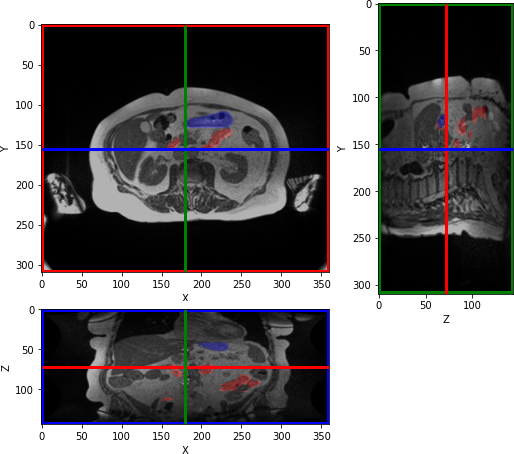
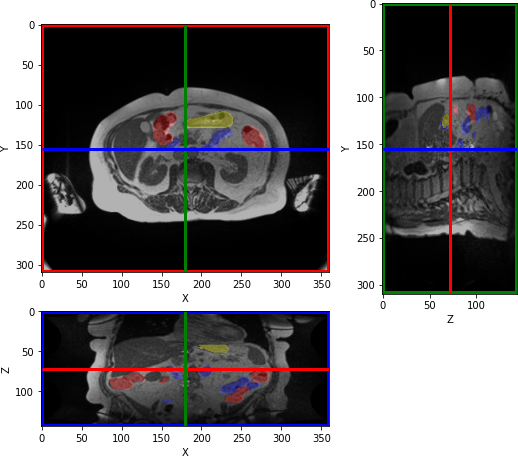
fix tract indexes

diff --git a/kaggle_imsegm/data.py b/kaggle_imsegm/data.py
@@ -15,8 +15,8 @@ def load_volume_from_images(img_dir: str, quant: float = 0.01) -> np.ndarray:
         img_dir: path to folder with images, where each image is volume slice
         quant: remove some intensity extreme
     """
-    imgs = sorted(glob.glob(os.path.join(img_dir, "*.png")))
-    imgs = [np.array(Image.open(p)).tolist() for p in imgs]
+    img_paths = sorted(glob.glob(os.path.join(img_dir, "*.png")))
+    imgs = [np.array(Image.open(p)).tolist() for p in img_paths]
     # print([np.max(im) for im in imgs])
     vol = np.array(imgs)
     if quant:
@@ -42,8 +42,8 @@ def create_tract_segm(df_vol: DataFrame, vol_shape: Tuple[int, int, int]) -> np.
         idx = int(idx_) - 1
         mask = segm[idx, :, :]
         for _, (lb, rle) in dfg[["class", "segmentation"]].iterrows():
-            lb = lbs.index(lb)
-            if not rle:
+            lb = lbs.index(lb) + 1
+            if not rle or not isinstance(rle, str):
                 continue
             mask = rle_decode(rle, img=mask, label=lb)
         segm[idx, :, :] = mask

diff --git a/kaggle_imsegm/mask.py b/kaggle_imsegm/mask.py
@@ -68,7 +68,7 @@ def rle_encode(mask: np.ndarray, bg: int = 0) -> Dict[int, str]:
         running_lb = v
         running_idx = i
         running_count = 1
-    # post processing
+    # post-processing
     rle = {lb: " ".join(map(str, idx_counts)) for lb, idx_counts in rle.items()}
     return rle
 
